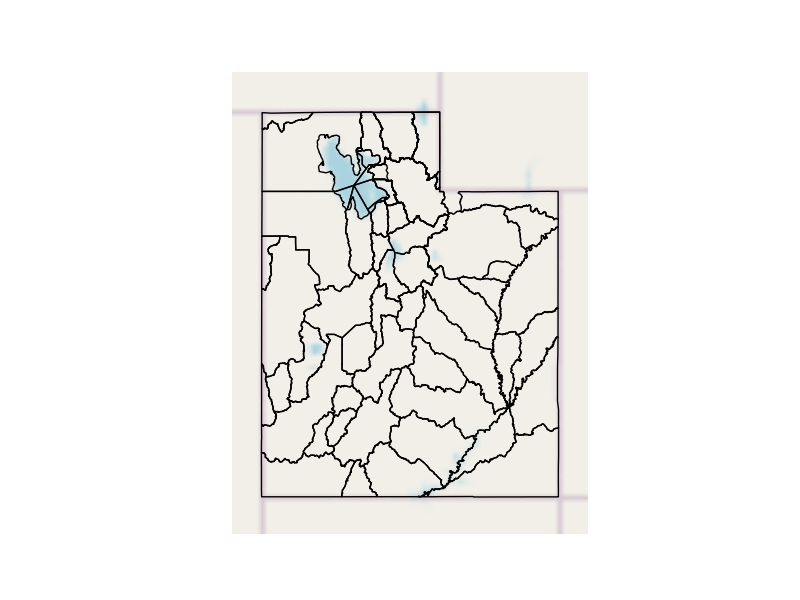
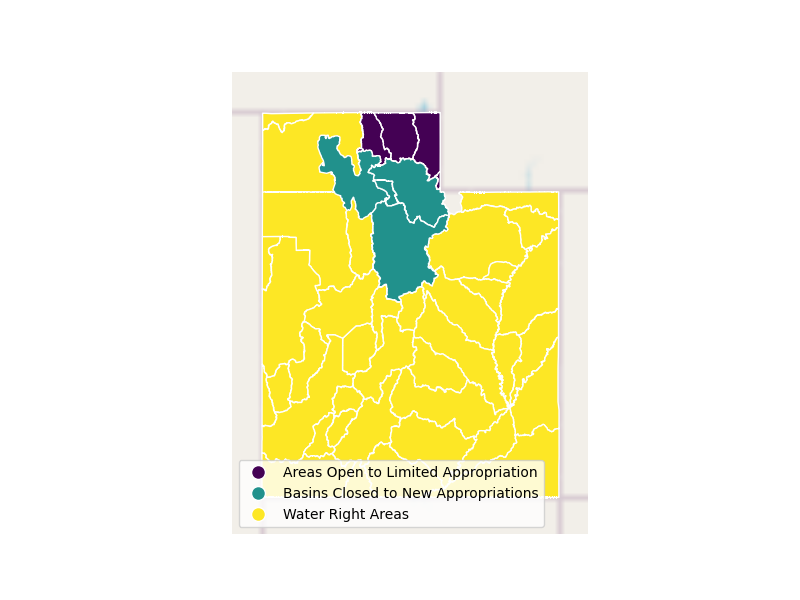
UTre update
- added links to source data on ReadMe
- updated ReportingUnitMap.png for ReadMe to include color

Changed region(s): [[0.3125, 0.18, 0.7188, 0.87]]

diff --git a/Utah/Regulatory/ReadME.md b/Utah/Regulatory/ReadME.md
@@ -8,8 +8,8 @@ The following data was used for water allocations...
 Name | Description | Download Link | Metadata Glossary Link
 ---------- | ---------- | ------------ | ------------
 **Utah Water Right Areas** | Water Right Areas Service, where administrative boundaries based primarily on surface drainage areas.  | [link](https://opendata.gis.utah.gov/datasets/utahDNR::utah-water-right-areas/about) | Not Provided
-**AreasOpenToLimitedAppropriation** | - | [link]() | Not Provided
-**BasinsClosedToNewAppropriations** | - | [link]() | Not Provided
+**AreasOpenToLimitedAppropriation** | Water Right Areas with limited new appropriations. | Emailed through personal correspondence with state | Not Provided
+**BasinsClosedToNewAppropriations** | Water Right Areas /basin closed to new appropriations. | Emailed through personal correspondence with state | Not Provided
 
 Unique files were created to be used as input.  Input files used are as follows...
 - WaterRightAreasServiceView (zipped shp & dbf files)
